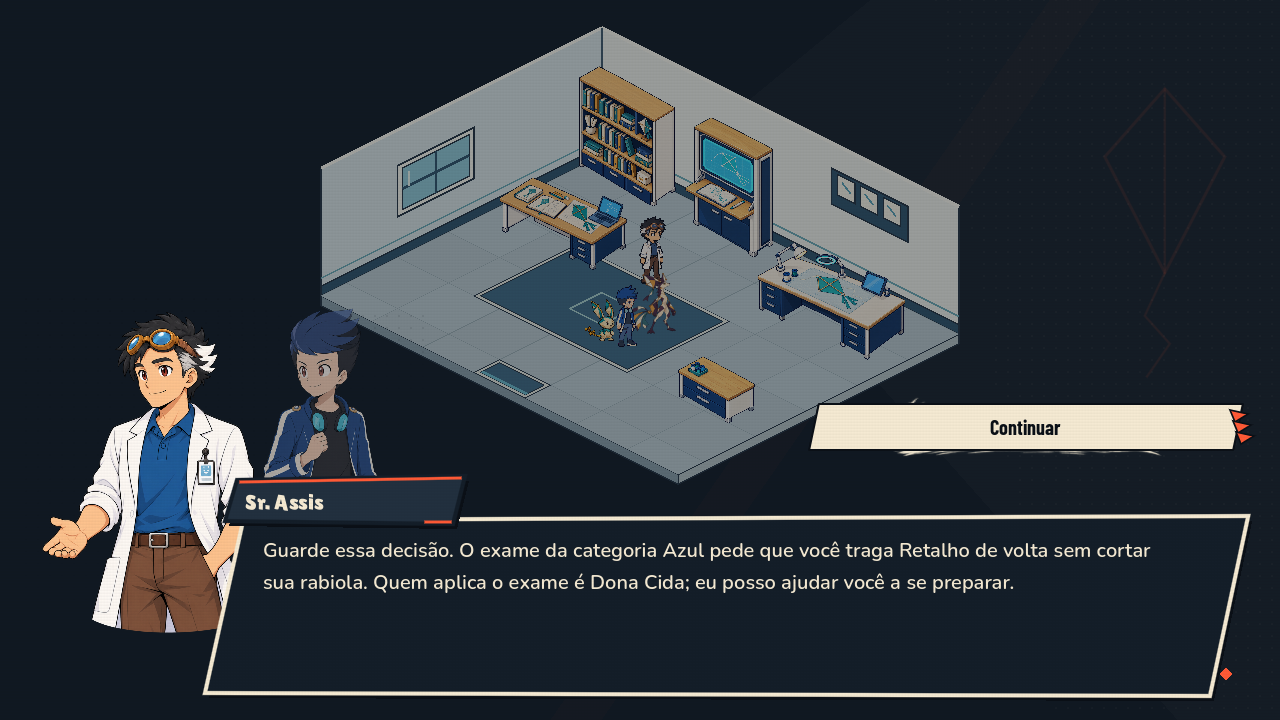
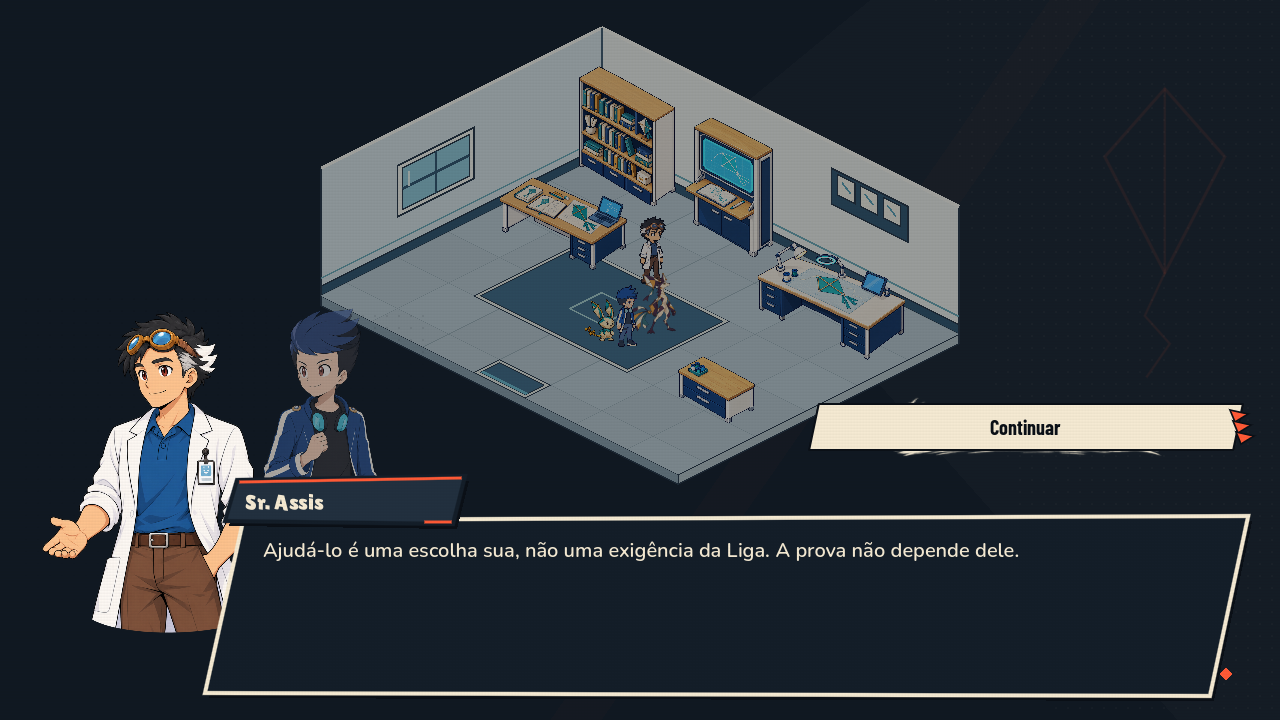
Historia Liga: separar exame Azul do arco de Retalho

Changed region(s): [[0.1875, 0.7333, 0.7812, 0.825], [0.7812, 0.7333, 0.9062, 0.7944]]

diff --git a/documentation/historia/BIBLIA-DA-HISTORIA.md b/documentation/historia/BIBLIA-DA-HISTORIA.md
@@ -191,13 +191,13 @@ Eles não são supervisores de rank, como os guardiões de Digimon World DS. Ele
 
 ## 6. Categorias do campeonato (ranks)
 
-**[Proposta]** A escada de rank de Digimon World DS (P1, P2), trocada por categorias da Liga. Cada categoria vale para 2 bairros e termina num **exame** dado pela Dona Cida. O exame é sempre uma tarefa da trajetória 2 vista pelo lado da Liga, para as duas trajetórias andarem juntas.
+**[Proposta]** A escada de rank de Digimon World DS (P1, P2), trocada por categorias da Liga. Cada categoria vale para 2 bairros e termina num **exame** dado pela Dona Cida. **[Decidido, 02/11/2026]** O exame Azul é uma avaliação comum a todos os candidatos, independente dos acontecimentos exclusivos da história de Kael. Experiências da trajetória pessoal podem prepará-lo, mas não substituem a prova da Liga. Os demais exames da tabela permanecem propostas a revisar segundo esse princípio.
 
 | Categoria | Bairros | Exame para subir | O que libera |
 | --- | --- | --- | --- |
 | **Rabiola Branca** | 1 e 2 | Achar a rabiola da Nina no Parque dos Ventos | 2 vagas no Varal. Remonta até o estágio Pipa |
 | **Rabiola Verde** | 3 e 4 | Achar o Tyler, que a Liga dá como desaparecido | Loja da Liga, ala 2. Pedidos de parceiro da categoria Verde |
-| **Rabiola Azul** | 5 e 6 | Trazer o Retalho de volta sem cortar a rabiola dele | Remonta até o estágio Arraia. 4 vagas no Varal |
+| **Rabiola Azul** | 5 e 6 | Prova de condução e cuidado: observação, condução e controle, aplicada por Dona Cida a todos os candidatos | Remonta até o estágio Arraia. 4 vagas no Varal |
 | **Rabiola Vermelha** | 7 e 8 | Libertar os Quatro Ventos | Loja da Liga, ala 3. Torneio da TV |
 | **Rabiola Dourada** | 9 e 10 | **Copa Relâmpago**: 3 duelos seguidos, 3 parceiros fixos, sem itens (P24) | Remonta até o estágio Pandorga. 6 vagas no Varal |
 | **Campeão de Kronasta** | 11 e 12 | A final contra a Jamile | Pós-jogo |
@@ -259,9 +259,17 @@ Já existe: abertura, aniversário de 15 anos, Rabbito, oficina, treino com o Sr
 | 4 | Vila Operária A–B | Bairro 6. Fábrica de linha. A Gollia está lá e aceita o Carretel Negro do Bando "só para testar". | Gollia (23) | — |
 | 5 | Vila Operária D, galpão | **O chefe impossível (P9).** O Bando costurou três rabiolas roubadas num só corpo, a **Pipa-Dragão**. O Kael não tem como vencer. O Retalho se joga na frente para defender o Kael e perde, como o lobo solitário de Digimon World DS. O Tyler chega e **desata os nós**, soltando duas das três almas. A Pipa-Dragão encolhe. | Pipa-Dragão (impossível) → Pipa-Dragão desatada (25) | **Agulha de desatar**: permite desmontar um parceiro e remontar por outra rota |
 | 6 | Vila Operária C | Duelo pelo bairro. | Campeão 6, **Bruno Solda** (24) | Bairro 7 |
-| 7 | Ateliê | O Retalho, ferido, deixa o Kael chegar perto. O Assis reconhece o nó da rabiola. | — | Exame da categoria Azul |
+| 7 | Ateliê | O Retalho, ferido, deixa o Kael chegar perto. O Assis reconhece o nó da rabiola. | — | Continuação do arco pessoal de Retalho, independente do exame Azul |
 
-**Exame da categoria Azul [Proposta]:** trazer o Retalho de volta **sem cortar a rabiola**. É o arco do Pagumon de Digimon World DS: o Retalho foge do Varal, come uma flor que faz mal (é preciso achar o remédio no Pântano) e depois é pego por valentões das Palafitas. No fim, ele aceita ficar. A revelação de quem ele é fica para o ato 4.
+**Exame da categoria Azul [Decidido, 02/11/2026]:** prova de condução e cuidado aplicada por Dona Cida. Qualquer jovem do universo pode realizá-la, sem conhecer Retalho ou participar da história de Kael. Após a categoria anterior e os bairros 5 e 6, a orientação apresenta três competências:
+
+1. **Observação:** identificar o estado de um Soulmonster e escolher o cuidado adequado.
+2. **Condução:** acompanhá-lo por um percurso com obstáculos, respeitando seu ritmo.
+3. **Controle:** resolver um desafio prático usando técnica, sem colocar o parceiro em risco desnecessário. Uma vitória em batalha, sozinha, não basta.
+
+Essa estrutura está aprovada; cenário da prova, espécie usada na avaliação, métricas, condições de reprovação e repetição ainda precisam de definição antes da implementação da prova jogável. A orientação de Assis não concede categoria nem atesta aprovação. O arco de Retalho não é pré-requisito do exame, não dá pontos e não substitui nenhuma etapa.
+
+**Arco pessoal de Retalho [Proposta mantida]:** trazê-lo de volta **sem cortar a rabiola** é uma escolha de Kael, não uma tarefa da Liga. Retalho foge do Varal, come uma flor que faz mal (é preciso achar o remédio no Pântano) e depois é pego por valentões das Palafitas. No fim, ele aceita ficar. A revelação de quem ele é fica para o ato 4. Essa experiência pode preparar emocionalmente Kael para o exame, sem condicionar sua inscrição ou aprovação.
 
 ### 7.5 Ato 4 — Rabiola Vermelha: "Os Quatro Ventos"
 

diff --git a/documentation/qa/blue-preparation-v1/RELATORIO.md b/documentation/qa/blue-preparation-v1/RELATORIO.md
@@ -2,18 +2,18 @@
 
 ## Entrega
 
-Após reconhecer o nó de Retalho, uma nova conversa no mesmo ponto permite registrar a orientação de Assis. Ele explica a condição da Bíblia, seção 7.4: trazer Retalho de volta sem cortar a rabiola. A aplicação formal continua atribuída a Dona Cida.
+Revisão de 02/11/2026: a orientação é acessada conversando com o professor, após a categoria Verde e os bairros 5 e 6. Não exige duelo, cuidado ou reconhecimento do nó de Retalho. Assis explica a prova comum da Liga: observação, condução e controle. A aplicação formal continua atribuída a Dona Cida. A Bíblia, seção 7.4, foi corrigida pela decisão do dono.
 
-O diário agora acompanha Gollia, o galpão, Bruno, o cuidado no ateliê e a orientação. Ao terminar o conteúdo disponível, mantém o ato 3 e informa que a continuação está pendente. Não concede categoria Azul nem abre a região de QA do Pântano para jogadores de release.
+O diário distingue a orientação da Liga e o arco pessoal de Retalho. A orientação vem antes do cuidado na sequência de objetivos e pode ser concluída independentemente dele. Ao terminar o conteúdo disponível, mantém o ato 3 e informa que a prova jogável está pendente. Não concede categoria Azul nem abre a região de QA do Pântano para jogadores de release.
 
-Cancelamento restaura exploração sem avançar; confirmação persiste por recibo único. Pré-requisitos e proximidade são checados no serviço. Nenhum parceiro, moeda ou item é alterado. Save anterior com o cuidado concluído recebe a nova conversa sem repetir as etapas anteriores.
+Cancelamento restaura exploração sem avançar; confirmação persiste pelo novo recibo `blue-exam.orientation-v2` e flag `exameAzulOrientadoV2`. Flags e recibos antigos são preservados, mas não dispensam a explicação corrigida nem equivalem a aprovação. Pré-requisitos e proximidade são checados no serviço. Nenhum parceiro, moeda ou item é alterado. Após a orientação, o professor continua oferecendo seu reparo normal.
 
 ## Verificação
 
-Teste específico cobre elegibilidade, diário, distância/cena, falha de escrita, cancelamento real do diálogo, confirmação, recarga e repetição. Capturas nativas em 1280×720 revisadas: orientação e objetivo final. Regressões: cuidado de Retalho (35 verificações) e atlas de Kronasta (187), zero falhas.
+Teste específico: 31 verificações em execução gráfica, zero falhas. Cobre elegibilidade sem qualquer evento de Retalho, save legado com recibo v1, diário, distância/cena, falha de escrita, cancelamento real do diálogo, confirmação, recarga e repetição. Capturas nativas em 1280×720 revisadas: fala corrigida e estado pessoal de Retalho. Regressões: cuidado de Retalho (35 verificações) e atlas de Kronasta (187), zero falhas.
 
 ## Não verificado / pendente
 
 Não houve teste com controle físico, exportação distribuível ou campanha completa desde o prólogo. Permanecem os avisos preexistentes de carregamento das imagens do ateliê para exportação e recursos remanescentes no encerramento de testes.
 
-Esta é a preparação, não o exame completo: fuga do Varal, flor nociva, remédio no Pântano, valentões das Palafitas e aceitação final ainda exigem integração própria. Não há nova arte, mapa, pose ou animação nesta etapa. O conflito visual preexistente entre quadros e HUD superior direito continua visível na captura de exploração.
+Esta é a orientação, não a prova jogável: cenário, espécie, métricas, reprovação e repetição ainda precisam de definição. Fuga do Varal, flor nociva, remédio no Pântano e valentões das Palafitas são exclusivamente o arco pessoal de Retalho e também exigem integração própria. Não há nova arte, mapa, pose ou animação nesta etapa. O conflito visual preexistente entre quadros e HUD superior direito continua visível na captura de exploração.

diff --git a/documentation/qa/retalho-atelie-v1/RELATORIO.md b/documentation/qa/retalho-atelie-v1/RELATORIO.md
@@ -4,7 +4,7 @@
 
 Cena posterior à vitória no galpão e à conclusão histórica da Vila Operária, conforme a seção 7.4 da Bíblia. Retalho permite a aproximação de Kael, recebe cuidado e Assis reconhece o nó da expedição. O acesso continua válido caso o jogador perca o título do bairro depois.
 
-Três etapas possuem identificadores estáveis e gravação por operação. Interromper conserva somente as etapas confirmadas; retomar abre o próximo trecho. Falha de gravação não avança a história. A conclusão marca a preparação do exame Azul, sem conceder a categoria, capturar Retalho, curar o grupo ou alterar itens, moedas e XP.
+Três etapas possuem identificadores estáveis e gravação por operação. Interromper conserva somente as etapas confirmadas; retomar abre o próximo trecho. Falha de gravação não avança a história. Desde a revisão de 02/11/2026, a conclusão registra apenas o reconhecimento do nó: não habilita nem conclui orientação ou exame da Liga. Não concede categoria, captura Retalho, cura o grupo ou altera itens, moedas e XP. As capturas abaixo são o registro visual original; a última fala teve a referência à categoria Azul removida nessa revisão.
 
 Reutiliza o ateliê, os retratos e o sprite aprovado de Retalho. Nenhuma geometria ou passagem foi alterada. O sprite ainda é estático e ereto: uma pose específica de repouso e animação de cuidado continuam pendentes.
 
